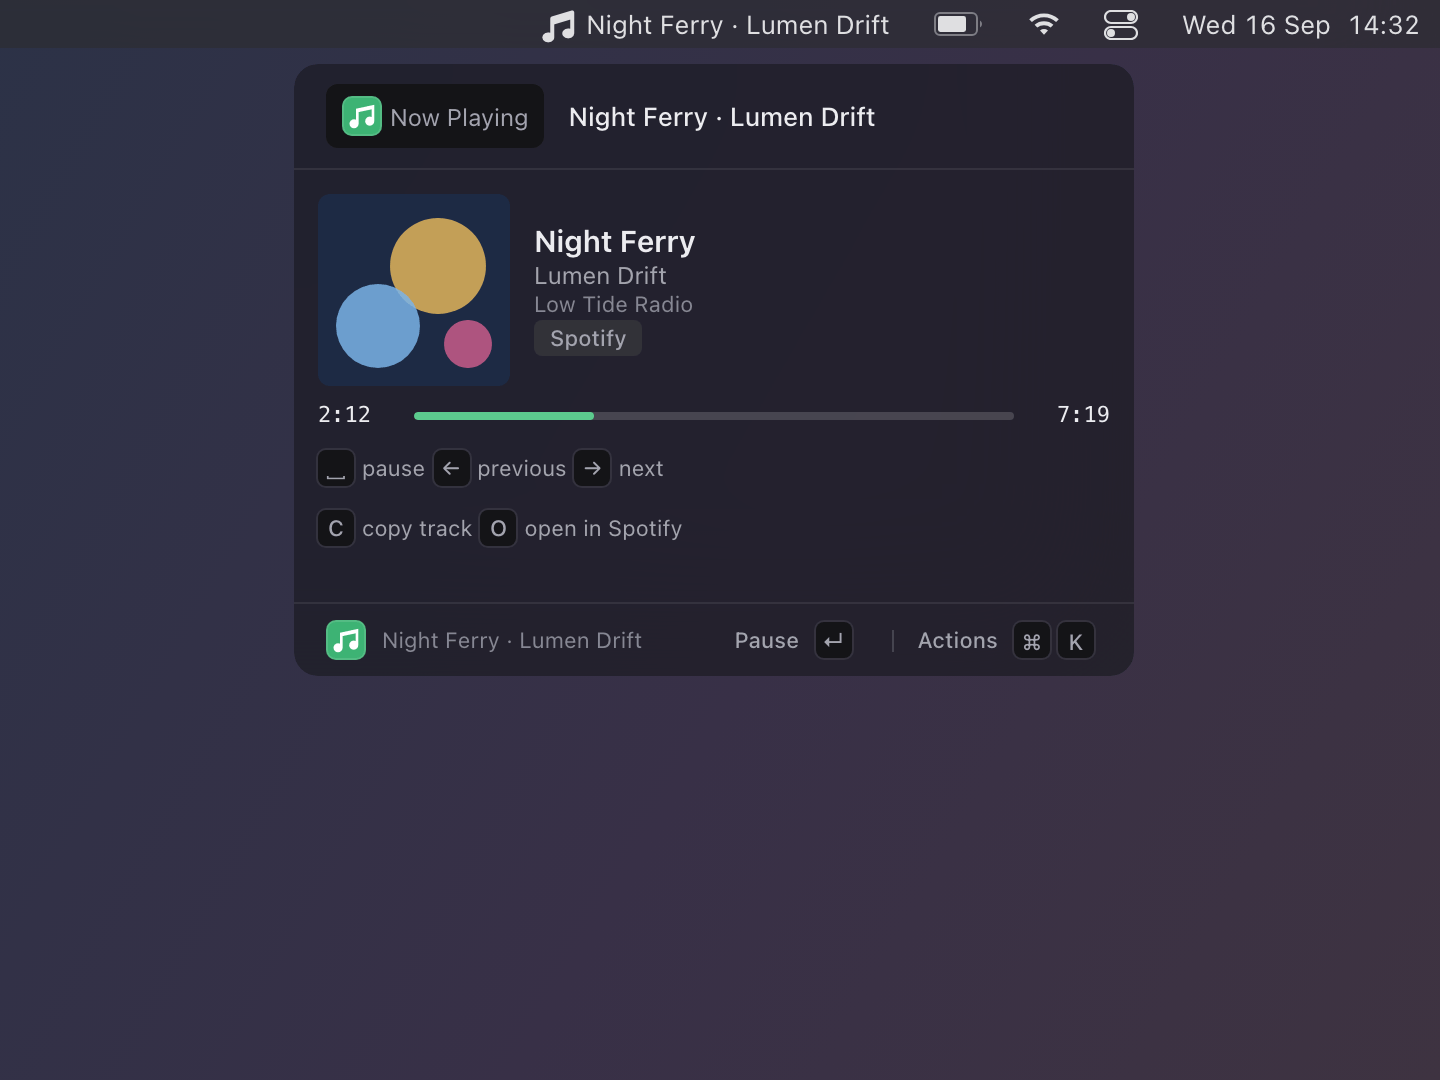
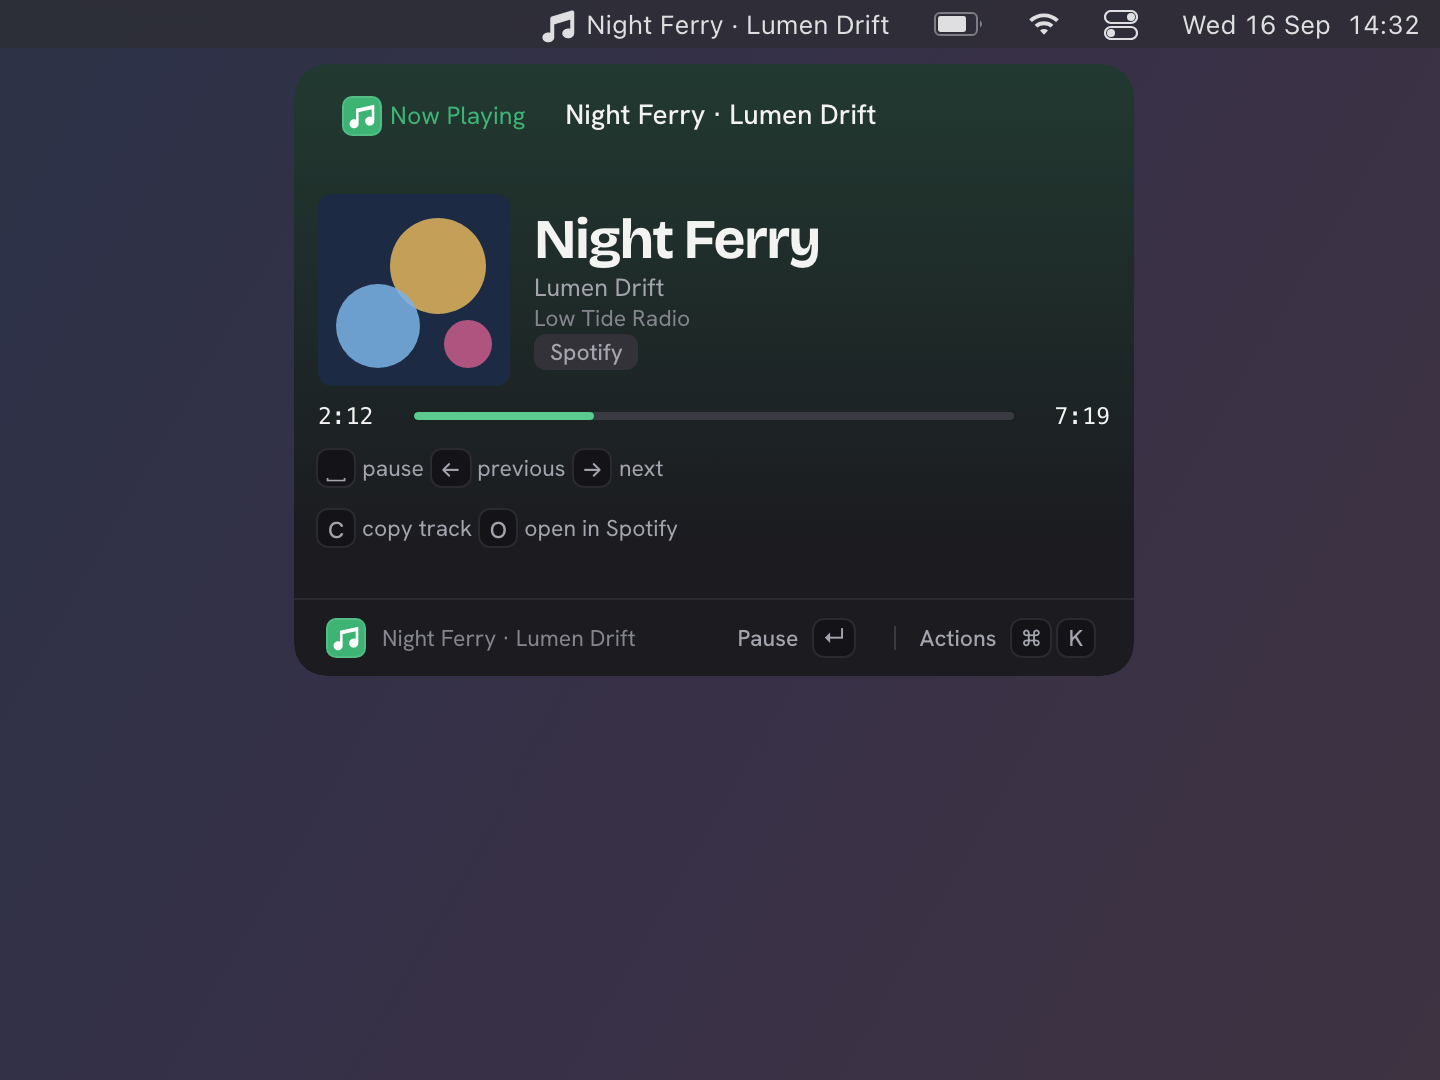
media: the track leads the popover as the headline; a row's accessories put the player before the position, so Ink's two keep which player and its state; screenshots in Ink

diff --git a/test/media.test.ts b/test/media.test.ts
@@ -87,10 +87,10 @@ describe("media", () => {
     expect(items.map((i) => i.id)).toEqual(["spotify", "music", "firefox.instance1"]);
     expect(items[0]).toMatchObject({
       name: "Blue Monday", subtitle: "New Order · Power, Corruption & Lies", icon: { image: "http://127.0.0.1:1/image/ab67" },
-      accessories: [{ text: "0:12 / 7:28" }, { text: "Spotify" }, { tag: "playing", color: "green" }],
+      accessories: [{ text: "Spotify" }, { text: "0:12 / 7:28" }, { tag: "playing", color: "green" }],
     });
     expect(items[0].actions!.map((a) => [a.id, a.title])).toEqual([["play_pause", "Pause"], ["next", "Next track"], ["previous", "Previous track"], ["copy", "Copy track"], ["open", "Open in Spotify"]]);
-    expect(items[1]).toMatchObject({ name: "Song 2", subtitle: "Blur", icon: { app: "/System/Applications/Music.app" }, accessories: [{ text: "0:00 / 2:00" }, { text: "Music" }, { tag: "paused", color: "amber" }] });
+    expect(items[1]).toMatchObject({ name: "Song 2", subtitle: "Blur", icon: { app: "/System/Applications/Music.app" }, accessories: [{ text: "Music" }, { text: "0:00 / 2:00" }, { tag: "paused", color: "amber" }] });
     expect(items[1].actions![0].title).toBe("Play");
     // No url: Open goes to the app on macOS only (a .desktop path is not something the opener launches).
     expect(items[1].actions!.some((a) => a.id === "open")).toBe(MAC);
@@ -116,7 +116,7 @@ describe("media", () => {
     np = { players: [chromeTitled], system_wide: true, stream: true };
     artworkAsked = 0;
     const [row] = await list();
-    expect(row).toMatchObject({ name: "Taylor Tomlinson (Full Episode)", subtitle: "Team Coco", icon: { image: PNG }, accessories: [{ text: "48:11 / 1:06:03" }, { text: "Google Chrome" }, { tag: "playing", color: "green" }] });
+    expect(row).toMatchObject({ name: "Taylor Tomlinson (Full Episode)", subtitle: "Team Coco", icon: { image: PNG }, accessories: [{ text: "Google Chrome" }, { text: "48:11 / 1:06:03" }, { tag: "playing", color: "green" }] });
     expect(artworkAsked).toBe(1);
     await list();
     expect(artworkAsked).toBe(1);

diff --git a/media/index.ts b/media/index.ts
@@ -1,7 +1,7 @@
 // Now Playing over the core's media capability: one row per running
 // player with the track as the title, artist and album as the subtitle,
 // the cover (the stream's, else the player's artwork url, else the app's
-// icon), the position as `12:34 / 1:06:03` and a state tag. A player that
+// icon), the player, the position as `12:34 / 1:06:03` and a state tag. A player that
 // reports no track (Chrome with YouTube on macOS gives the position and
 // nothing else) is its app's name with the position as the subtitle. Enter
 // plays or pauses, ⌘→ / ⌘← skip, ⌘C copies "artist - title", ⌘O opens
@@ -115,10 +115,10 @@ export async function item(p: Player): Promise<Item> {
   // A row with a state but no track: the app is the title, the position the subtitle.
   const untitledActive = idle && p.state !== "stopped";
   const accessories: Accessory[] = [{ tag: STATE[p.state].tag, color: STATE[p.state].color }];
-  if (!idle) accessories.unshift({ text: p.name });
-  // The position leads, on a row with a track (the untitled row has it as the subtitle).
+  // On a row with a track: the player, then the position (the untitled row has it as the subtitle). A design that keeps two accessories drops the position first, so which player it is stays.
   const at = progress(p);
   if (!idle && at) accessories.unshift({ text: at });
+  if (!idle) accessories.unshift({ text: p.name });
   const actions: Action[] = [
     { id: "play_pause", title: p.state === "playing" ? "Pause" : "Play" },
     { id: "next", title: "Next track", shortcut: "cmd+right" },

diff --git a/media/view.ts b/media/view.ts
@@ -45,11 +45,11 @@ function head(p: MediaPlayer, st: MediaState): ViewNode {
   const tw = POPOVER_W - COVER - 12;
   const titles: ViewNode[] = p.title
     ? [
-        text(p.title, { style: "title", key: `t-${p.id}-${p.title}`, width: tw, transition: { enter: "fade" } }),
+        text(p.title, { style: "headline", key: `t-${p.id}-${p.title}`, width: tw, transition: { enter: "fade" } }),
         ...(p.artist ? [text(p.artist, { style: "muted", size: "sm", width: tw })] : []),
         ...(p.album ? [text(p.album, { size: "xs", color: "faint", width: tw })] : []),
       ]
-    : [text(p.name, { style: "title", key: `t-${p.id}`, width: tw }), text(p.state === "playing" ? "Playing, no track named" : "Paused", { style: "muted", size: "sm", width: tw })];
+    : [text(p.name, { style: "headline", key: `t-${p.id}`, width: tw }), text(p.state === "playing" ? "Playing, no track named" : "Paused", { style: "muted", size: "sm", width: tw })];
   // The player as a badge, unless it already stands as the title (a player that names no track).
   const badges: ViewNode[] = p.title ? [{ type: "badge", key: "app", text: p.name, color: "grey" }] : [];
   if (p.state === "paused") badges.push({ type: "badge", key: "paused", text: "paused", color: "amber" });
